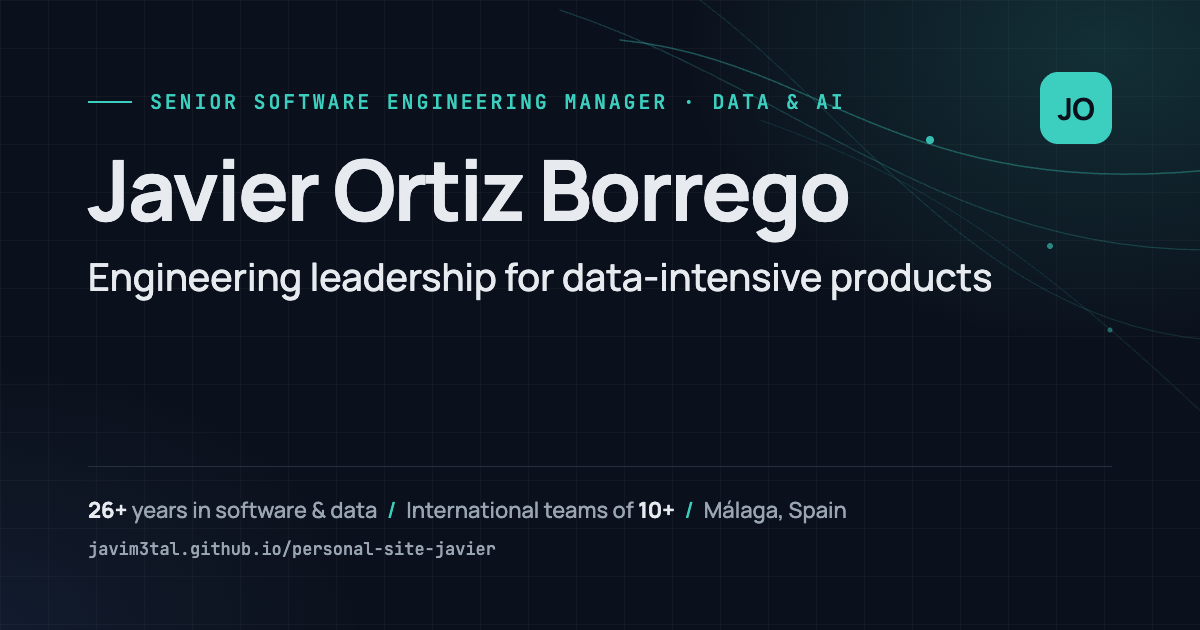
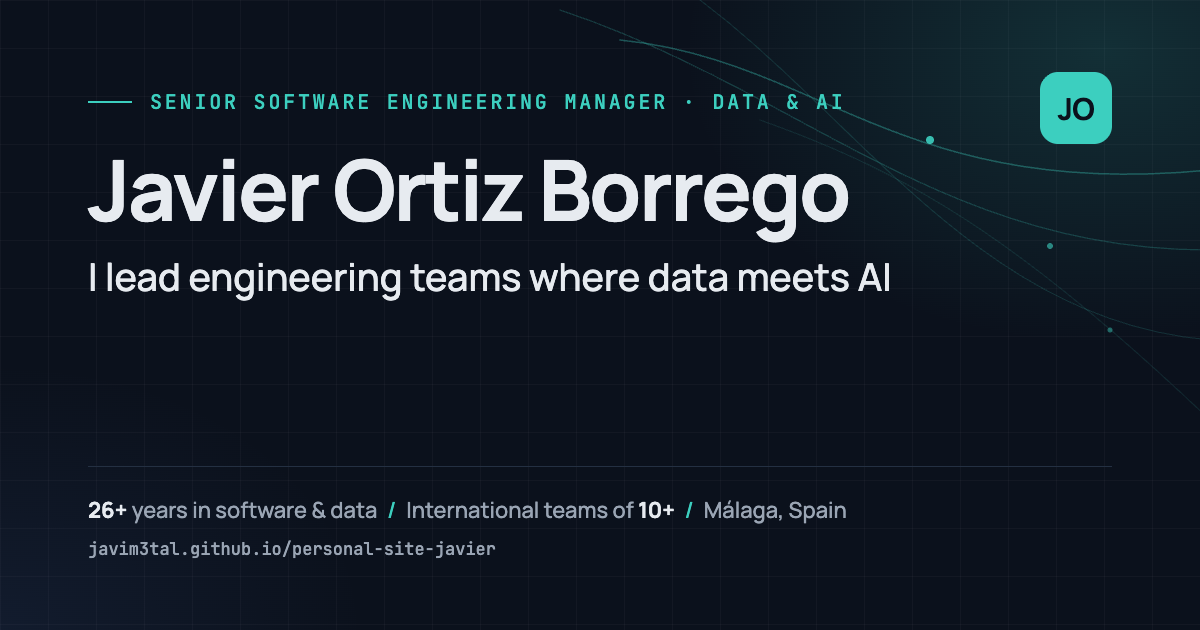
content: leadership-focused hero, About and descriptions; refresh preview image

Changed region(s): [[0.0617, 0.4222, 0.8325, 0.4825]]

diff --git a/content/content.js b/content/content.js
@@ -3,7 +3,7 @@
 window.SITE_CONTENT = {
   meta: {
     title: "Javier Ortiz Borrego · Engineering Manager, Data & AI",
-    description: "Senior Software Engineering Manager with 26 years in software and data engineering. Multi-product delivery, Azure data integration and agentic AI. Málaga.",
+    description: "Senior Software Engineering Manager leading international teams of 10+. Data engineering roots, a passion for AI and 26 years in software. Málaga, Spain.",
     lang: "en",
     ogImage: "https://javim3tal.github.io/personal-site-javier/assets/img/og-image.png"
   },
@@ -21,8 +21,8 @@ window.SITE_CONTENT = {
 
   hero: {
     eyebrow: "Senior Software Engineering Manager · Data & AI",
-    headline: "Engineering leadership for data-intensive products",
-    lead: "26 years in software and data engineering. In recent years, led several international teams of more than 10 people, from roadmap to release, and brings AI-augmented engineering into everyday delivery.",
+    headline: "I lead engineering teams where data meets AI",
+    lead: "Engineering manager with deep roots in data engineering and a genuine passion for AI. I build and grow international teams that deliver with clarity and trust, and I help them work smarter with AI every day.",
     ctas: [
       { label: "Download CV", href: "assets/CV_Javier_Ortiz_Borrego.pdf", kind: "primary" },
       { label: "Get in touch", href: "#contact", kind: "ghost" }
@@ -38,9 +38,7 @@ window.SITE_CONTENT = {
   about: {
     title: "Engineering manager with deep data roots",
     paragraphs: [
-      "Engineering manager specialising in data integration and enterprise data flow. At JLL Technologies, led a multi-product team across three concurrent product lines, owning delivery end to end: roadmap and stakeholder alignment, quality assurance, release and final decision-making.",
-      "Background as developer, analyst and enterprise data architect on Azure, Databricks, PostgreSQL and Oracle, so technical direction is grounded in hands-on experience.",
-      "Applies AI-augmented engineering daily (Claude Code, Claude Agent SDK, agentic workflows) to speed up teams and automate repetitive work. Open to new challenges where engineering, data and AI experience can add value."
+      "Over 26 years in software and data engineering have taught me that great technology is built by great teams. I’ve led several international teams of more than 10 people, guiding them from roadmap to release by combining clear direction, trust, and technical depth. My foundation is data engineering, and my current focus is embedding AI-augmented practices into how teams work every day."
     ]
   },
 

diff --git a/index.html b/index.html
@@ -4,7 +4,7 @@
   <meta charset="utf-8">
   <meta name="viewport" content="width=device-width, initial-scale=1">
   <title>Javier Ortiz Borrego · Engineering Manager, Data &amp; AI</title>
-  <meta name="description" content="Senior Software Engineering Manager with 26 years in software and data engineering. Multi-product delivery, Azure data integration and agentic AI. Málaga.">
+  <meta name="description" content="Senior Software Engineering Manager leading international teams of 10+. Data engineering roots, a passion for AI and 26 years in software. Málaga, Spain.">
   <meta name="author" content="Javier Ortiz Borrego">
   <meta name="color-scheme" content="light dark">
   <meta name="theme-color" content="#F8F7F4">
@@ -30,7 +30,7 @@
   <meta property="og:url" content="https://javim3tal.github.io/personal-site-javier/">
   <meta property="og:site_name" content="Javier Ortiz Borrego">
   <meta property="og:title" content="Javier Ortiz Borrego · Engineering Manager, Data &amp; AI">
-  <meta property="og:description" content="Senior Software Engineering Manager with 26 years in software and data engineering. Multi-product delivery, Azure data integration and agentic AI. Málaga.">
+  <meta property="og:description" content="Senior Software Engineering Manager leading international teams of 10+. Data engineering roots, a passion for AI and 26 years in software. Málaga, Spain.">
   <meta property="og:image" content="https://javim3tal.github.io/personal-site-javier/assets/img/og-image.png">
   <meta property="og:image:type" content="image/png">
   <meta property="og:image:width" content="1200">
@@ -42,7 +42,7 @@
   <meta name="twitter:card" content="summary_large_image">
   <meta name="twitter:image" content="https://javim3tal.github.io/personal-site-javier/assets/img/og-image.png">
   <meta name="twitter:title" content="Javier Ortiz Borrego · Engineering Manager, Data &amp; AI">
-  <meta name="twitter:description" content="Senior Software Engineering Manager with 26 years in software and data engineering. Multi-product delivery, Azure data integration and agentic AI. Málaga.">
+  <meta name="twitter:description" content="Senior Software Engineering Manager leading international teams of 10+. Data engineering roots, a passion for AI and 26 years in software. Málaga, Spain.">
 
   <script type="application/ld+json">
   {

diff --git a/design/og-image.html b/design/og-image.html
@@ -54,7 +54,7 @@
   <div class="wrap">
     <div class="eyebrow">Senior Software Engineering Manager · Data &amp; AI</div>
     <h1>Javier Ortiz Borrego</h1>
-    <p class="tagline">Engineering leadership for data-intensive products</p>
+    <p class="tagline">I lead engineering teams where data meets AI</p>
     <div class="foot">
       <p class="facts"><b>26+</b> years in software &amp; data<span>/</span>International teams of <b>10+</b><span>/</span>Málaga, Spain</p>
       <p class="url">javim3tal.github.io/personal-site-javier</p>
